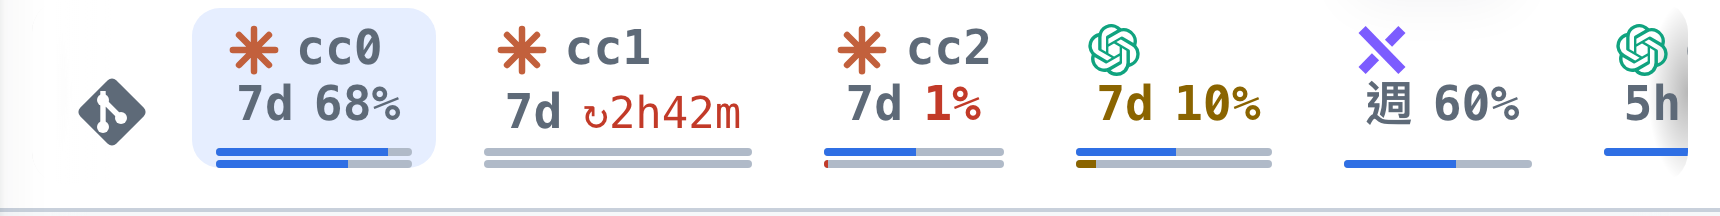
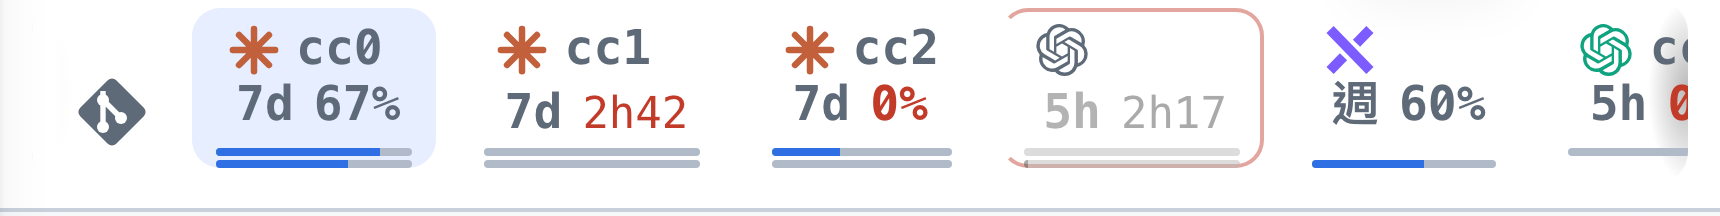
fix(quota): 倒數拿掉 ↻ 與 m，只留 2h42
使用者 2026-09-14：「不需要 ↻ 不要 m」。不到一小時寫 0h42 而不是裸的 42——那一格旁邊全是
百分比，只寫數字會被讀成 42%。完整時刻仍在滑鼠提示。

Claude-Session: https://claude.ai/code/session_015AsYKQxZHA6CNxAefNc7DK

diff --git a/web/src/components/QuotaStrip.tsx b/web/src/components/QuotaStrip.tsx
@@ -521,7 +521,7 @@ function Gauge({
               <span className={`quota-window-name${soon ? ' soon' : ''}`} title={soon ? `5h 還有 ${soon} 重置` : undefined}>{soon ?? w.name}</span>
               {back ? (
                 <span className="quota-reset-at" title={`用完了，還有 ${back} 重置`}>
-                  ↻{back}
+                  {back}
                 </span>
               ) : (
                 <span className="quota-compact-pct">{w.pct === null ? '無資料' : `${fmtPct(w.pct)}%`}</span>
@@ -552,7 +552,7 @@ function Gauge({
                 instead={
                   back ? (
                     <span className="quota-reset-at" title={`用完了，還有 ${back} 重置`}>
-                      ↻{back}
+                      {back}
                     </span>
                   ) : undefined
                 }

diff --git a/web/src/lib/quotaReset.test.ts b/web/src/lib/quotaReset.test.ts
@@ -6,8 +6,9 @@ const at = (h: number, m: number) => new Date(2026, 8, 14, h, m, 0).toISOString(
 const now = new Date(2026, 8, 14, 0, 44, 0).getTime()
 
 test('歸零且三小時內重置：只寫倒數（使用者 2026-09-14：不要重置時刻）', () => {
-  assert.equal(resetBadge(0, at(3, 25), now), '2h41m')
-  assert.equal(resetBadge(0, at(0, 56), now), '12m')
+  assert.equal(resetBadge(0, at(3, 25), now), '2h41')
+  // 不到一小時也寫 `0h12`：旁邊全是百分比，裸的 `12` 會被讀成 12%。
+  assert.equal(resetBadge(0, at(0, 56), now), '0h12')
 })
 
 test('還有額度就不寫——那時候要看的是還剩多少', () => {

diff --git a/web/src/lib/quotaReset.ts b/web/src/lib/quotaReset.ts
@@ -8,10 +8,13 @@
  */
 export const RESET_SOON_MS = 3 * 60 * 60 * 1000
 
+/**
+ * `2h42` / `0h42`——使用者 2026-09-14：「不要 m」。一律 `<小時>h<分>`，不到一小時寫 `0h42`
+ * 而不是裸的數字：那一格旁邊全是百分比，只寫 `42` 會被讀成 42%。
+ */
 function short(ms: number): string {
   const m = Math.max(0, Math.ceil(ms / 60_000))
-  const h = Math.floor(m / 60)
-  return h > 0 ? `${h}h${String(m % 60).padStart(2, '0')}m` : `${m}m`
+  return `${Math.floor(m / 60)}h${String(m % 60).padStart(2, '0')}`
 }
 
 /**

diff --git a/docs/UI-DECISIONS.md b/docs/UI-DECISIONS.md
@@ -155,11 +155,12 @@
 使用者：「當已 0 且 reset 天數 < 3 小時，標示 3:25 的重置時間且自動倒數」。
 
 額度還有的時候，要看的是「還剩多少」；歸零之後那個 0 不會再變，唯一還在動、也唯一有用的是
-「還要等多久」。所以某條視窗**剩餘 0% 且重置在三小時內**時，量表右邊那個百分比換成 `↻2h41m`
+「還要等多久」。所以某條視窗**剩餘 0% 且重置在三小時內**時，量表右邊那個百分比換成 `2h41`
 （每分鐘跟著跳，沿用原本那個一分鐘的計時器）。手機的緊縮列同一條規則，換掉的是 `0%` 那個數字。
 
-**只寫倒數、不寫重置時刻**（同日使用者第二次指示）：鐘點要自己跟現在對照才知道還要等多久，
-倒數本身就是答案。完整時刻留在滑鼠提示裡。
+寫法是同一天三次對話收斂出來的：先是「重置時刻＋倒數」，接著「不需要重置時間，只要 xhym」，
+最後「不需要 ↻ 不要 m」。所以現在就是**裸的 `<小時>h<分>`**，沒有圖示、沒有單位字母；不到一小時
+寫 `0h42` 而不是裸的 `42`——那一格旁邊全是百分比，只寫數字會被讀成 42%。完整時刻留在滑鼠提示裡。
 
 門檻為什麼是三小時：重置在更遠的地方時寫鐘點沒有意義（那是明天的事，量表旁邊的刻度已經說了），
 三小時內才是「等一下就回來、值得等」的範圍。已經過了重置時刻（輪詢還沒把數字更新回來）就不畫
